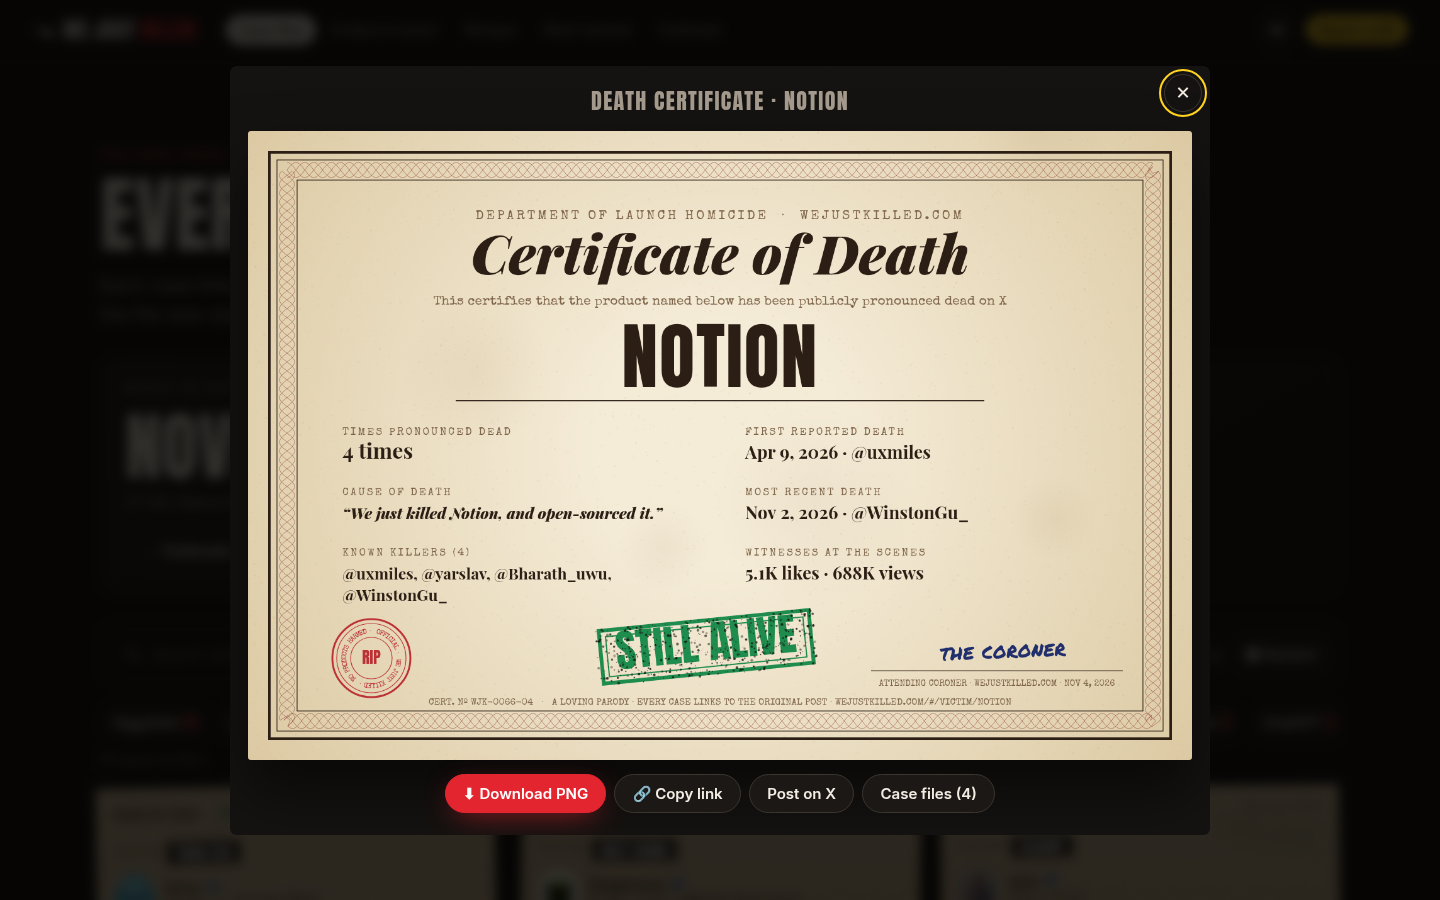
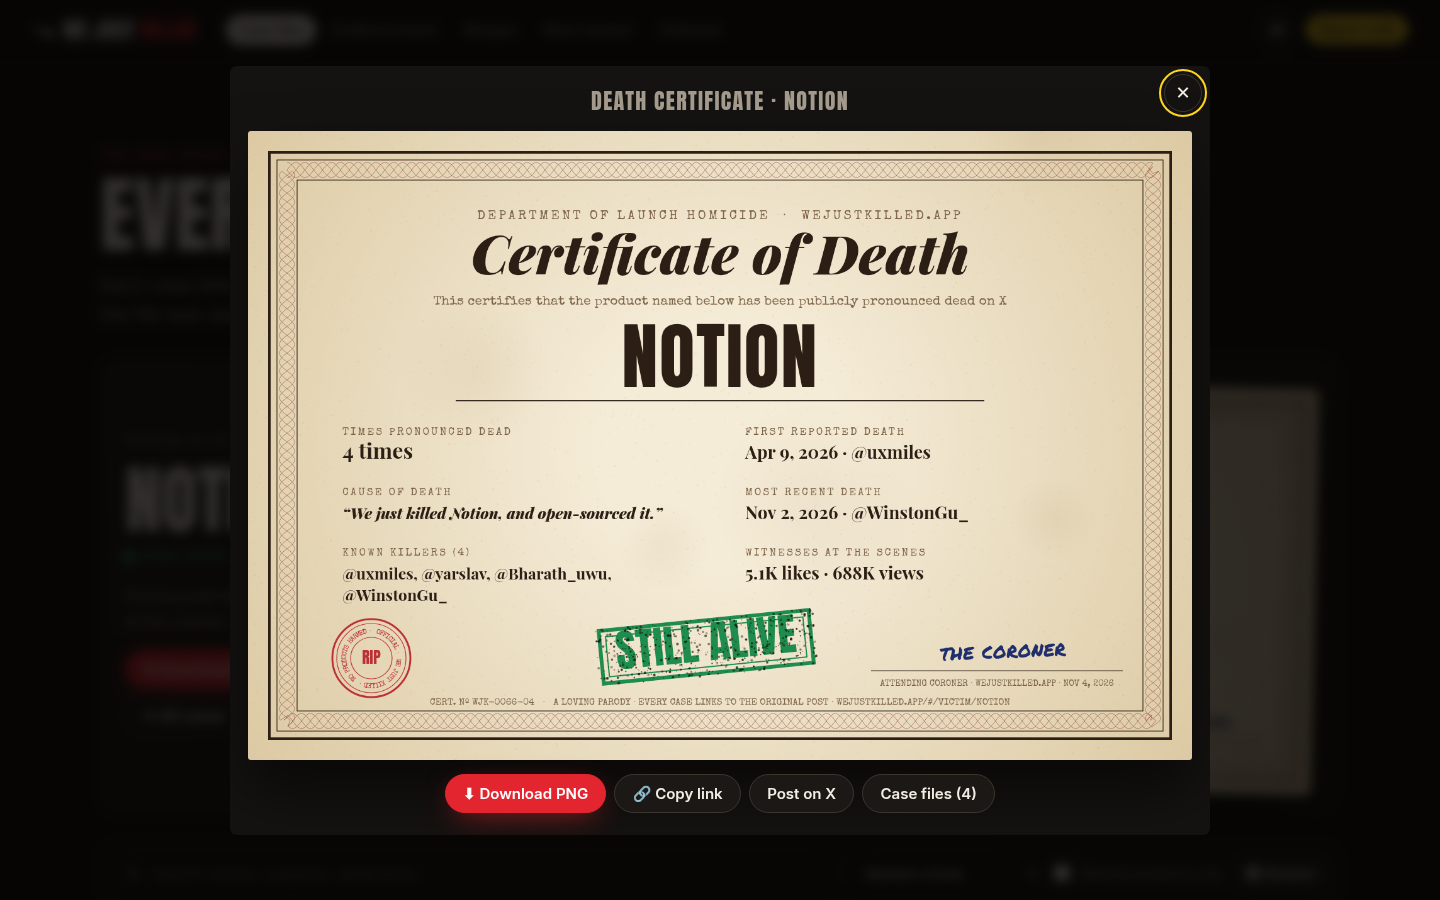
Use wejustkilled.app domain

diff --git a/site/index.html b/site/index.html
@@ -16,21 +16,22 @@
       property="og:description"
       content="305 launch posts claimed to have “just killed” another product. 298 victims. Zero confirmed deaths. Is your product dead? Check the morgue."
     />
-    <meta property="og:image" content="https://wejustkilled.com/og.png" />
-    <meta property="og:video" content="https://wejustkilled.com/og-video.mp4" />
-    <meta property="og:video:url" content="https://wejustkilled.com/og-video.mp4" />
-    <meta property="og:video:secure_url" content="https://wejustkilled.com/og-video.mp4" />
+    <meta property="og:image" content="https://wejustkilled.app/og.png" />
+    <meta property="og:video" content="https://wejustkilled.app/og-video.mp4" />
+    <meta property="og:video:url" content="https://wejustkilled.app/og-video.mp4" />
+    <meta property="og:video:secure_url" content="https://wejustkilled.app/og-video.mp4" />
     <meta property="og:video:type" content="video/mp4" />
     <meta property="og:video:width" content="1280" />
     <meta property="og:video:height" content="720" />
-    <meta property="og:url" content="https://wejustkilled.com/" />
+    <meta property="og:url" content="https://wejustkilled.app/" />
+    <link rel="canonical" href="https://wejustkilled.app/" />
     <meta name="twitter:card" content="summary_large_image" />
     <meta name="twitter:title" content="We Just Killed 🔪 Is your product dead?" />
     <meta
       name="twitter:description"
       content="305 launch posts claimed to have “just killed” another product. 298 victims. Zero confirmed deaths."
     />
-    <meta name="twitter:image" content="https://wejustkilled.com/og.png" />
+    <meta name="twitter:image" content="https://wejustkilled.app/og.png" />
     <link rel="icon" href="favicon.svg" type="image/svg+xml" />
     <link rel="preload" href="kills.json" as="fetch" crossorigin="anonymous" />
     <link rel="stylesheet" href="assets/fonts/fonts.css" />

diff --git a/site/app.js b/site/app.js
@@ -56,10 +56,8 @@
   };
   const rng = (seed) => () => (seed = (seed * 1664525 + 1013904223) >>> 0) / 4294967296;
   const avSize = (u, sz) => (u ? u.replace(/_(normal|bigger|mini|200x200|400x400)(\.\w+)$/, `_${sz}$2`) : u);
-  const SITE =
-    /^(localhost|127\.|0\.0\.0\.0|$)/.test(location.hostname) || location.protocol === 'file:'
-      ? 'wejustkilled.com'
-      : location.host;
+  // Brand domain printed on certificates; fixed so www/preview hosts don't leak in.
+  const SITE = 'wejustkilled.app';
   const pageURL = (h) => location.href.split('#')[0] + h;
   const intent = (text, url) =>
     'https://x.com/intent/post?text=' + encodeURIComponent(text) + (url ? '&url=' + encodeURIComponent(url) : '');

diff --git a/docs/CREDITS.md b/docs/CREDITS.md
@@ -11,4 +11,4 @@ http://creativecommons.org/licenses/by/4.0/
 
 ## Video footage
 
-The video footage (og-video*.mp4, og-video-poster.jpg) was AI-generated for the We Just Killed project (wejustkilled.com). The original clip's generated audio was replaced by the music above.
+The video footage (og-video*.mp4, og-video-poster.jpg) was AI-generated for the We Just Killed project (wejustkilled.app). The original clip's generated audio was replaced by the music above.

diff --git a/README.md b/README.md
@@ -1,6 +1,7 @@
 # We Just Killed
 
 A parody "case file" of startup launch posts on X that claim to have "just killed" another product.
+Live at **[wejustkilled.app](https://wejustkilled.app)**.
 305 cases from January 2023 to November 2026, each with a victim, a killer, the evidence post and a printable death certificate.
 
 ![Home page](docs/img/home.png)
